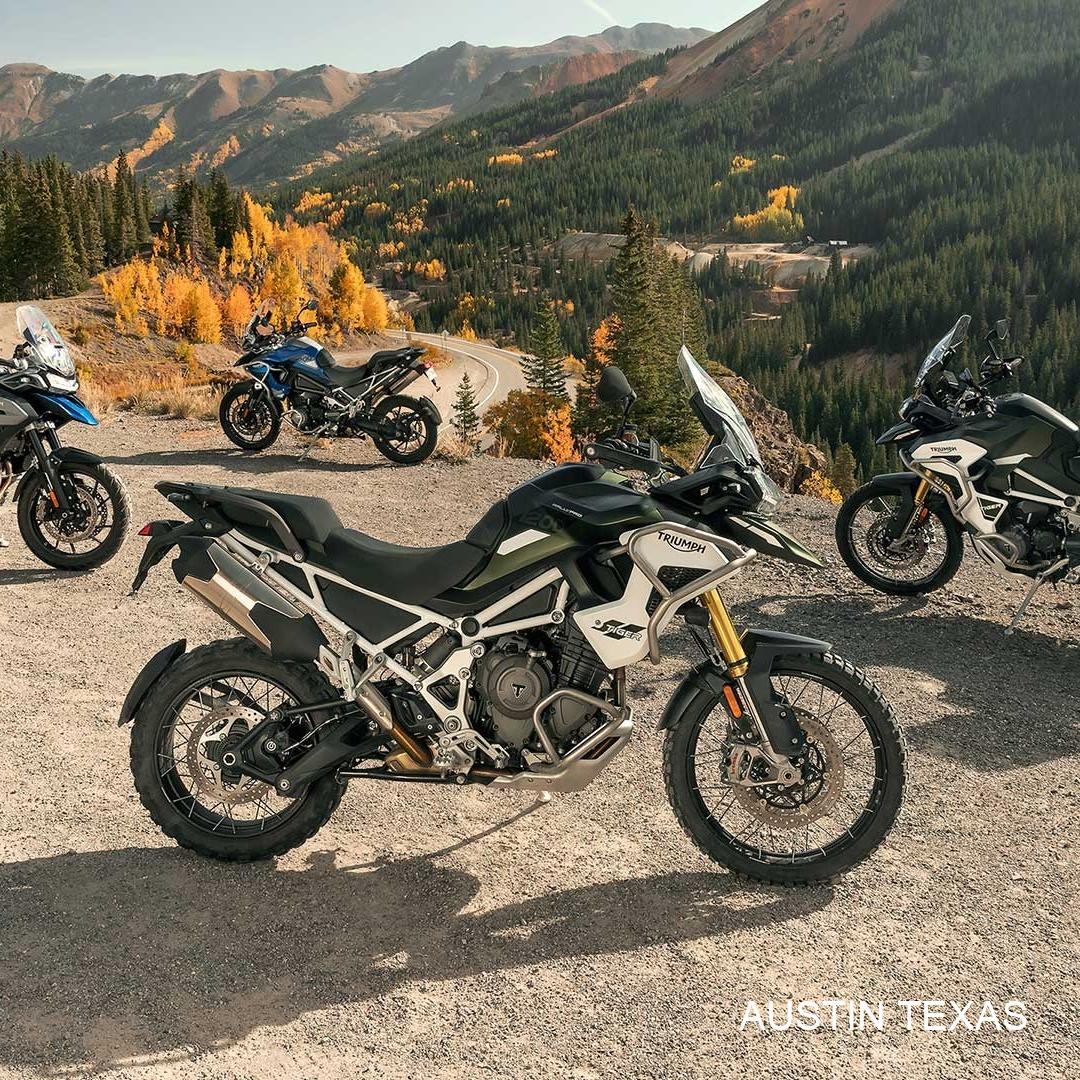
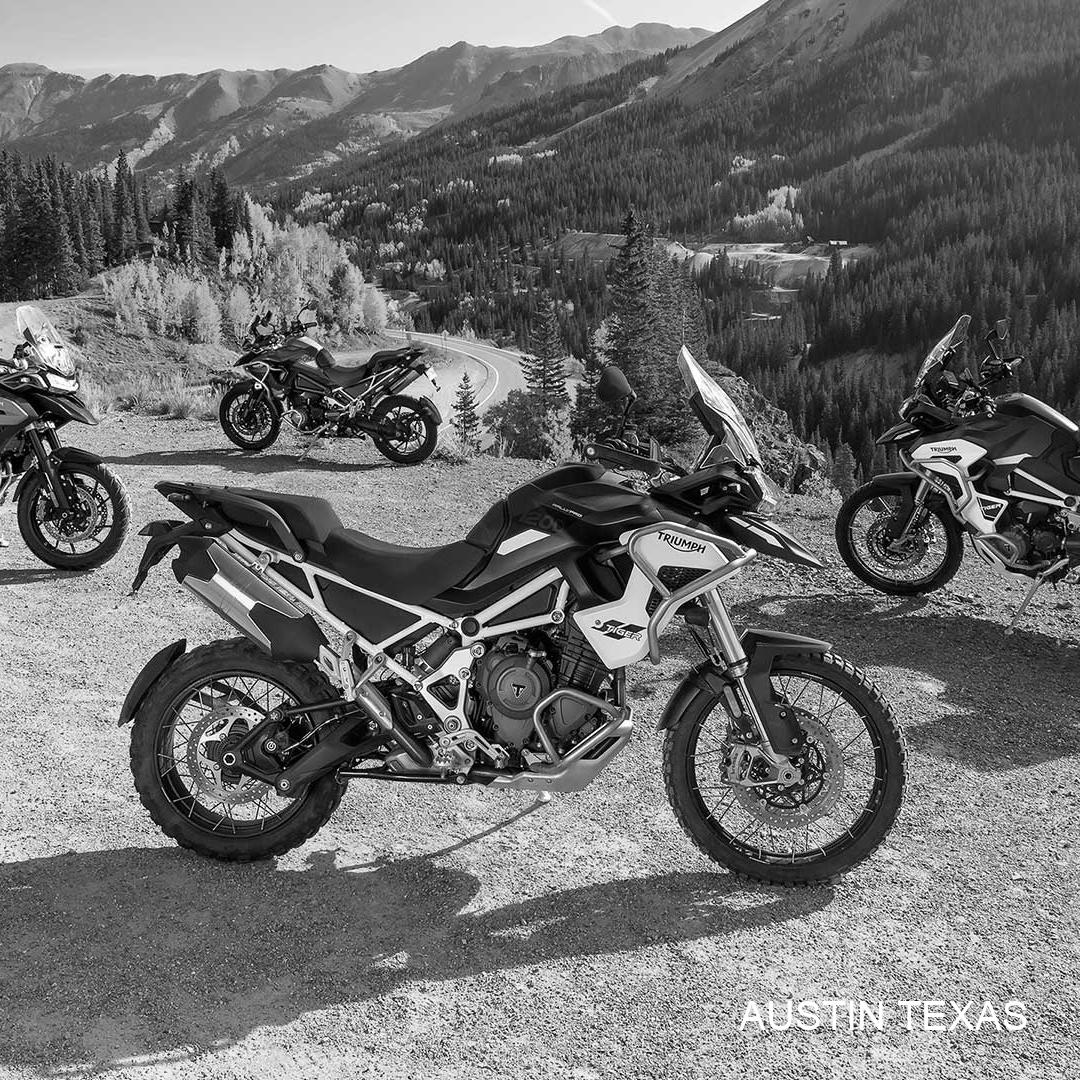
added b/w filter

diff --git a/main.py b/main.py
@@ -42,7 +42,6 @@ def watermark():
             f, e = os.path.splitext(file_name)
 
             width, height = image.size
-
             draw = ImageDraw.Draw(image)
             text = "AUSTIN TEXAS"
 
@@ -54,7 +53,7 @@ def watermark():
             y = height - text_height - margin
 
             draw.text((x, y), text, font=font)
-
+            image = image.convert(mode='L')
             image.save(water_path + f + '.jpg', 'JPEG')
 
 
